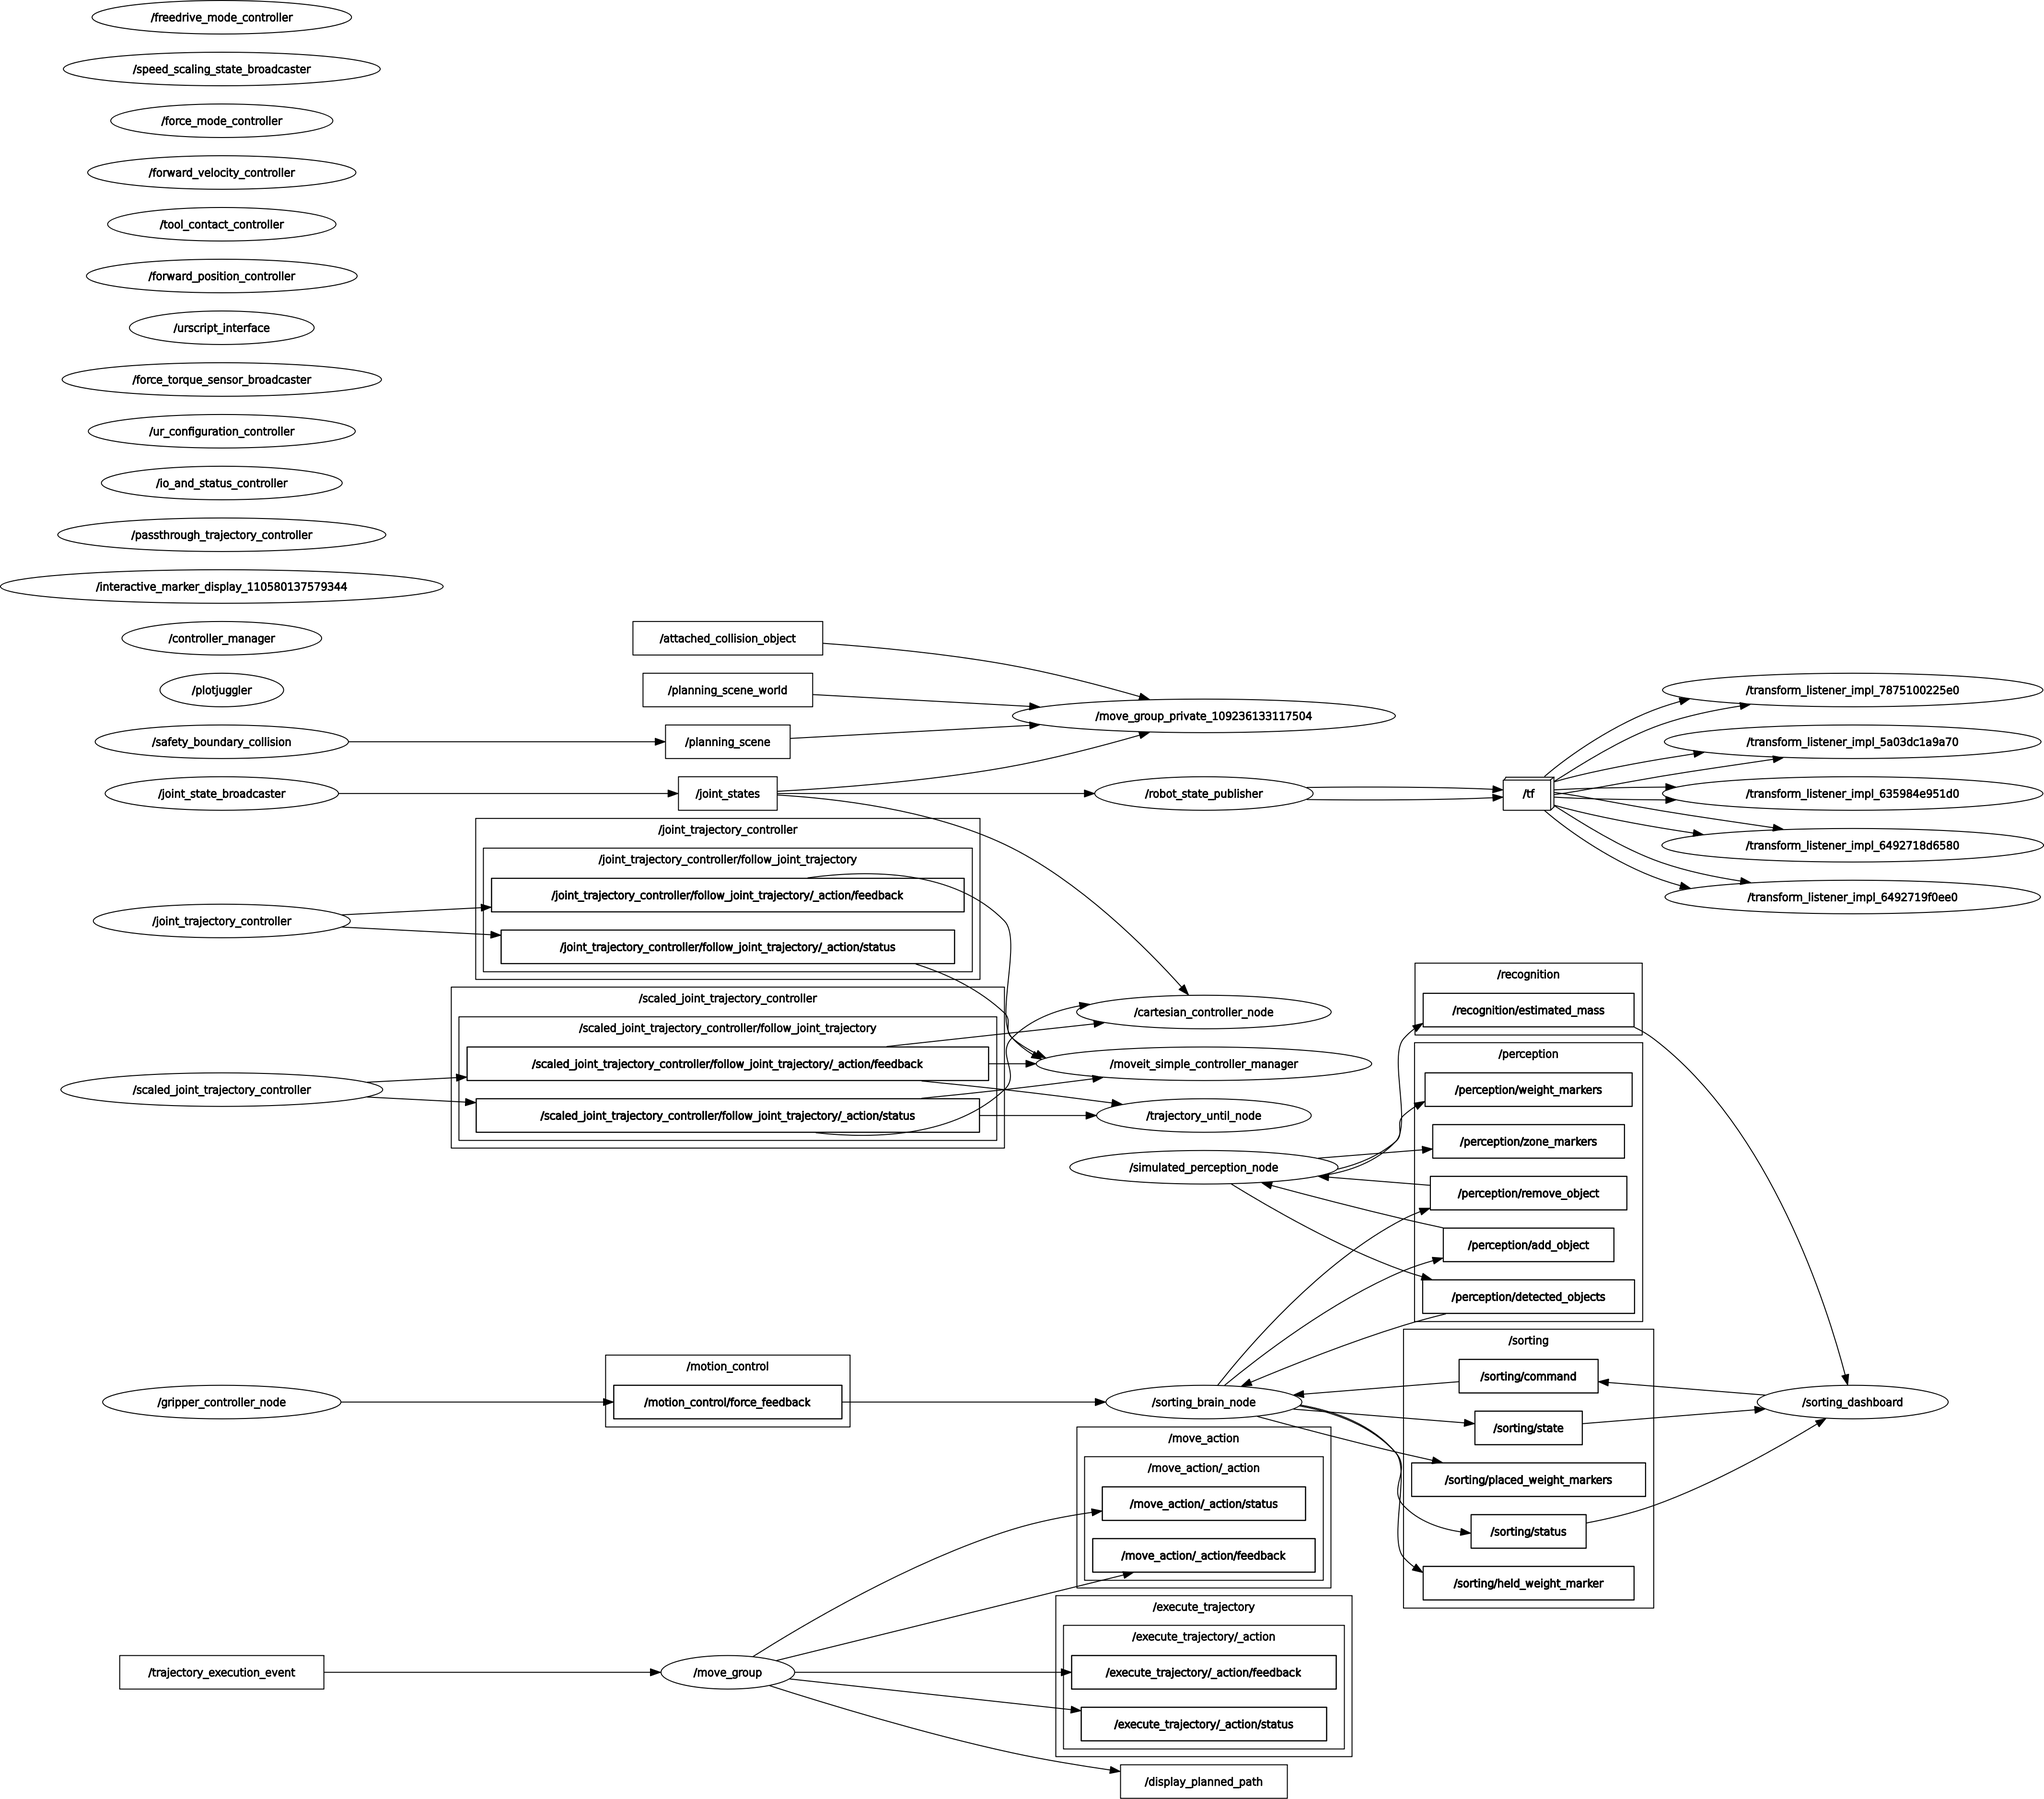
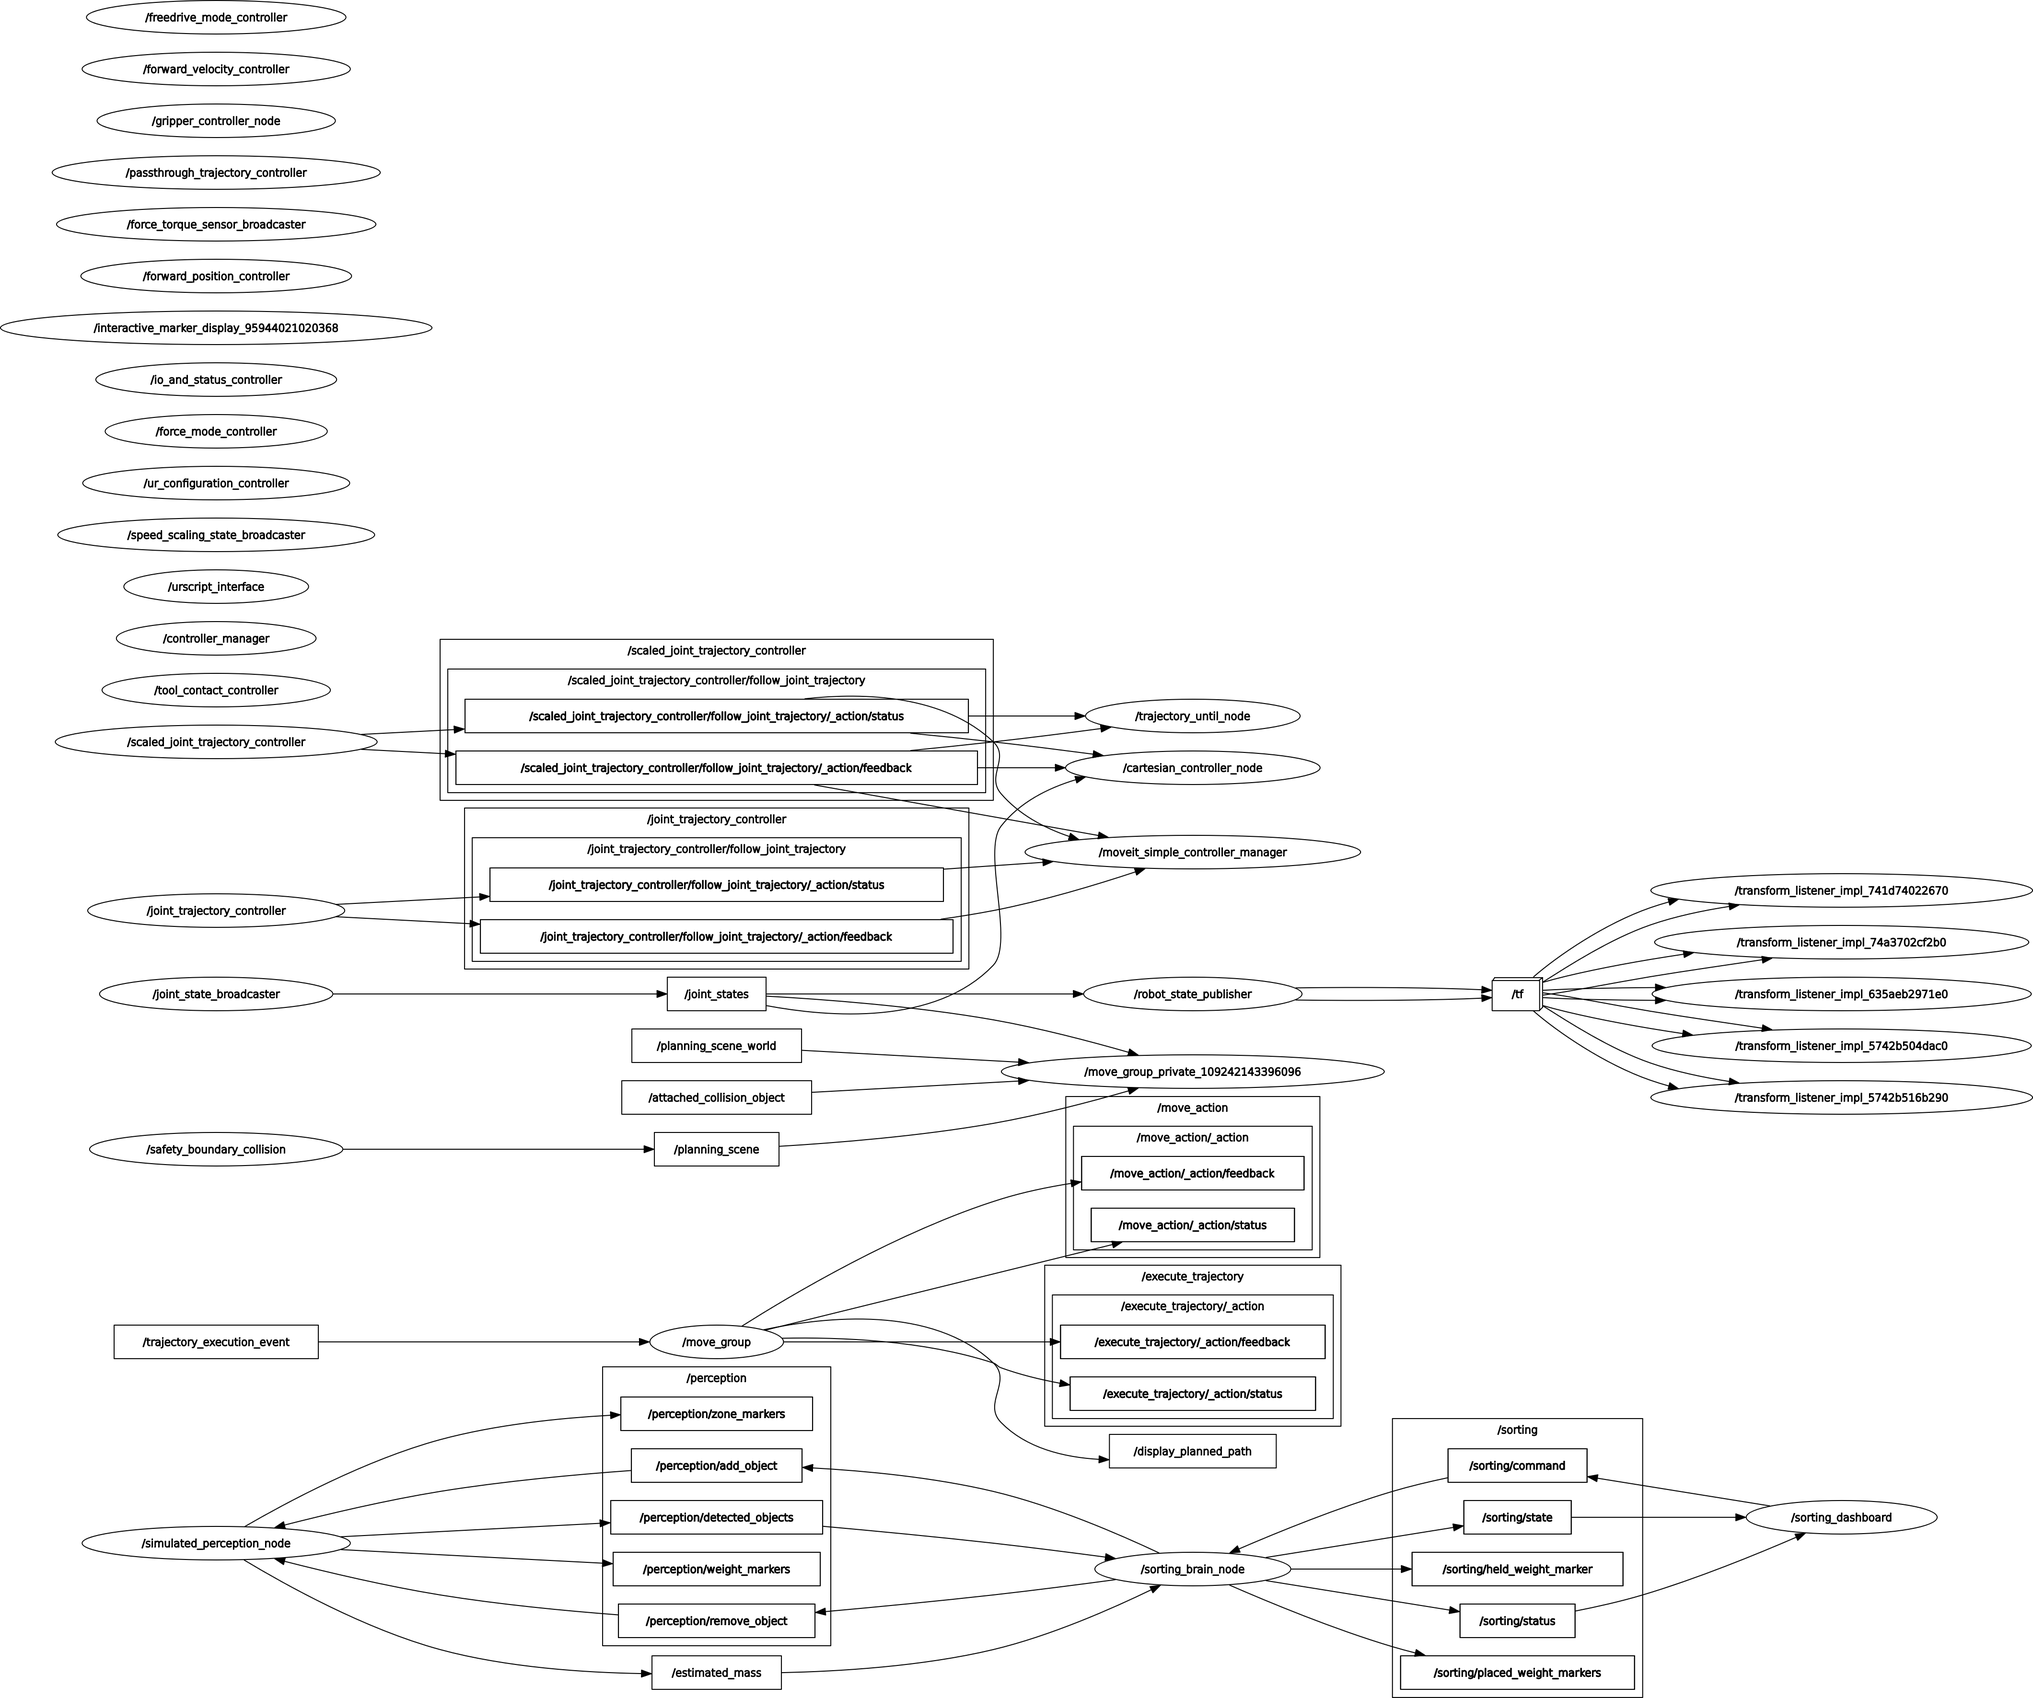
new node_topic_diagram

diff --git a/ros2_system/src/supervisor_module/supervisor_module/simulated_perception_node.py b/ros2_system/src/supervisor_module/supervisor_module/simulated_perception_node.py
@@ -94,7 +94,7 @@ class SimulatedPerceptionNode(Node):
         # Publisher for weight estimates (when object is picked)
         self.weight_pub = self.create_publisher(
             Int32,
-            '/recognition/estimated_mass',
+            '/estimated_mass',
             10
         )
 

diff --git a/ros2_system/src/perception_module/perception_module/__init__.py b/ros2_system/src/perception_module/perception_module/__init__.py
@@ -1,0 +1,1 @@
+# Perception package
